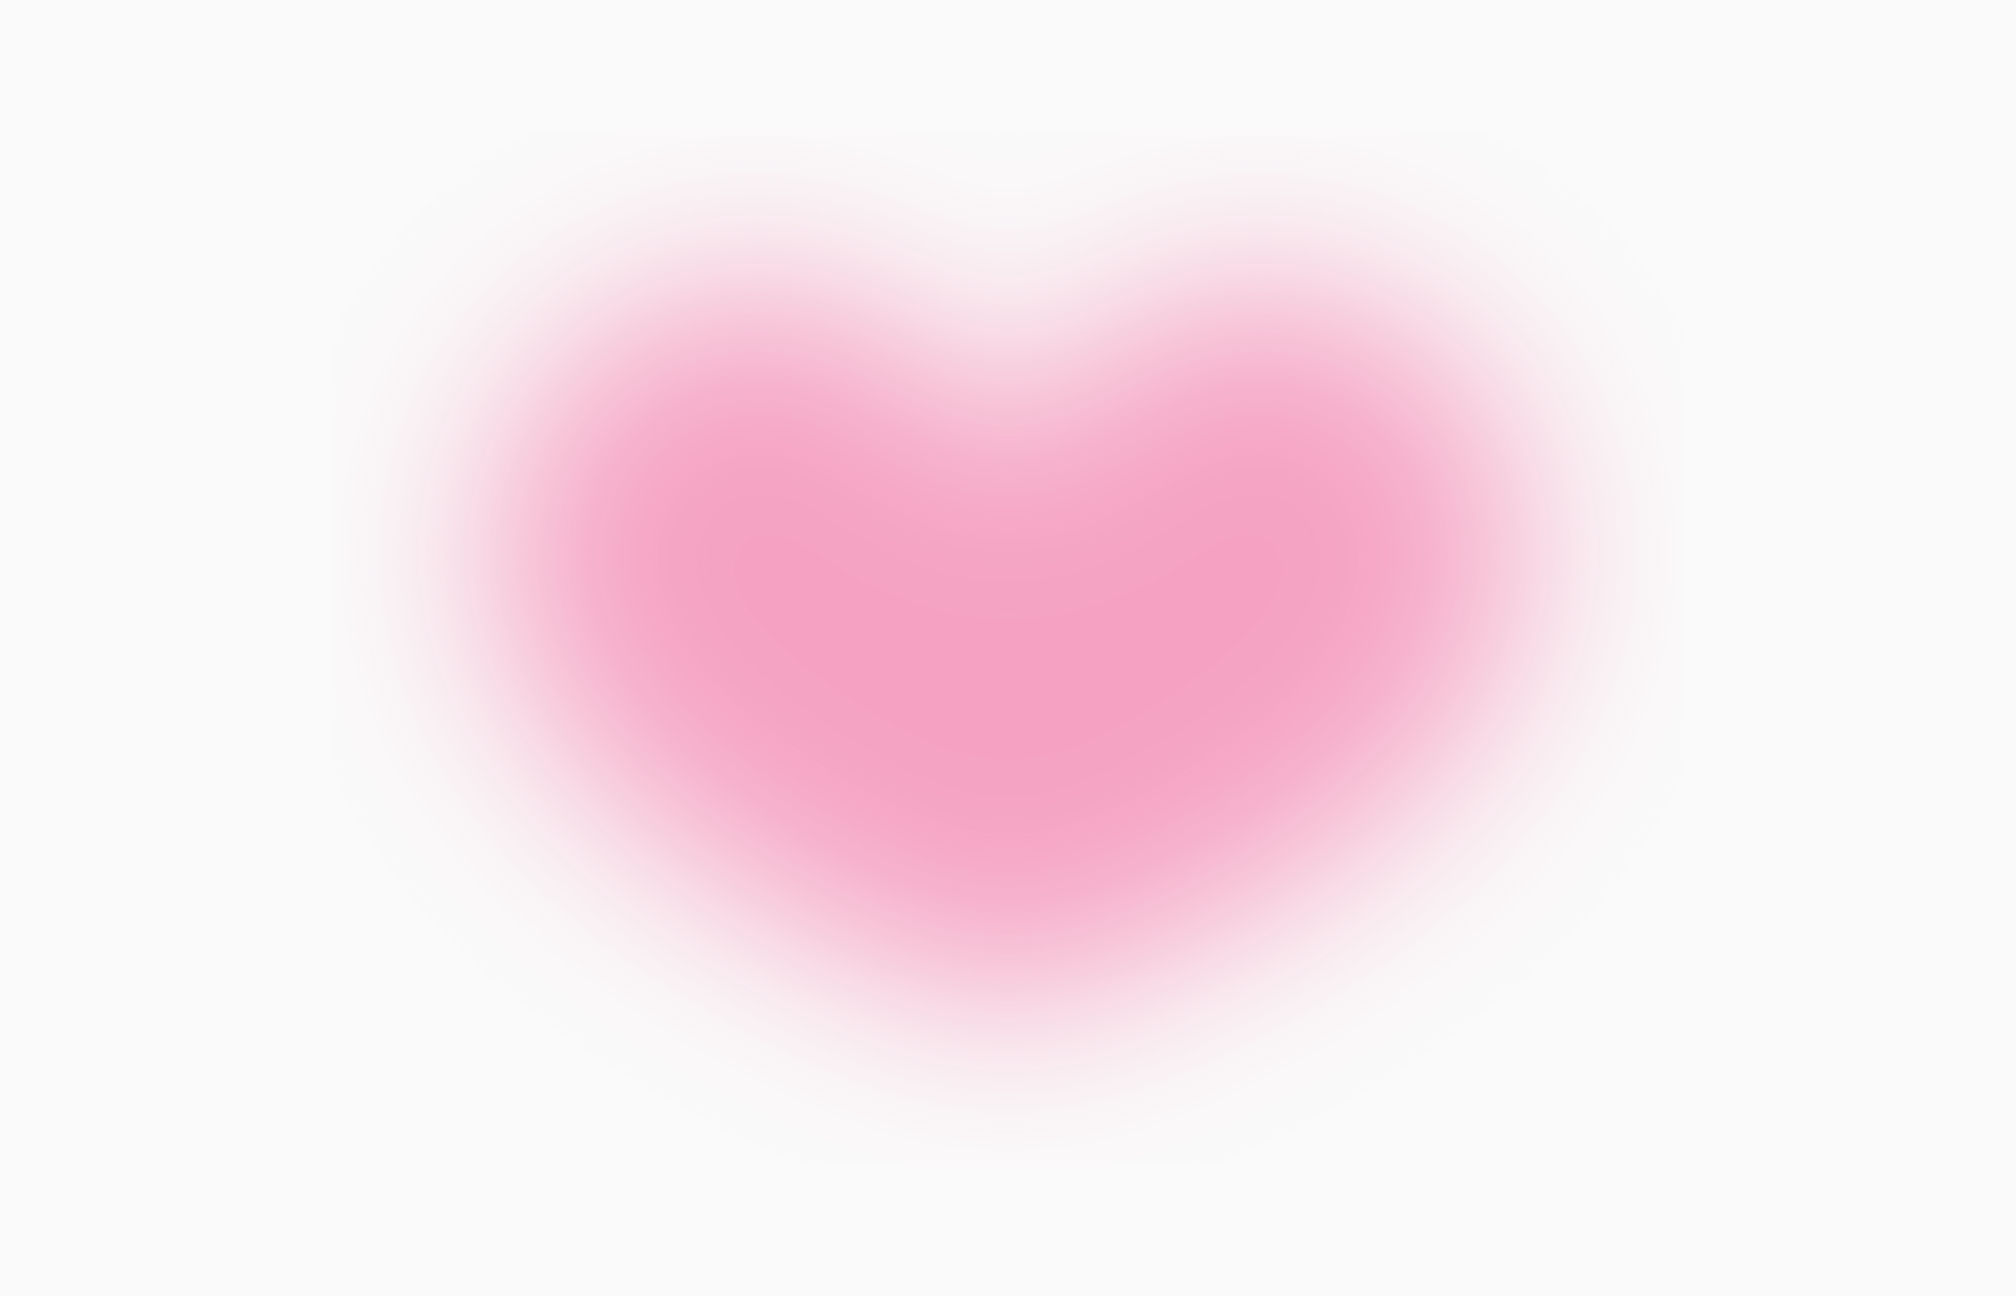
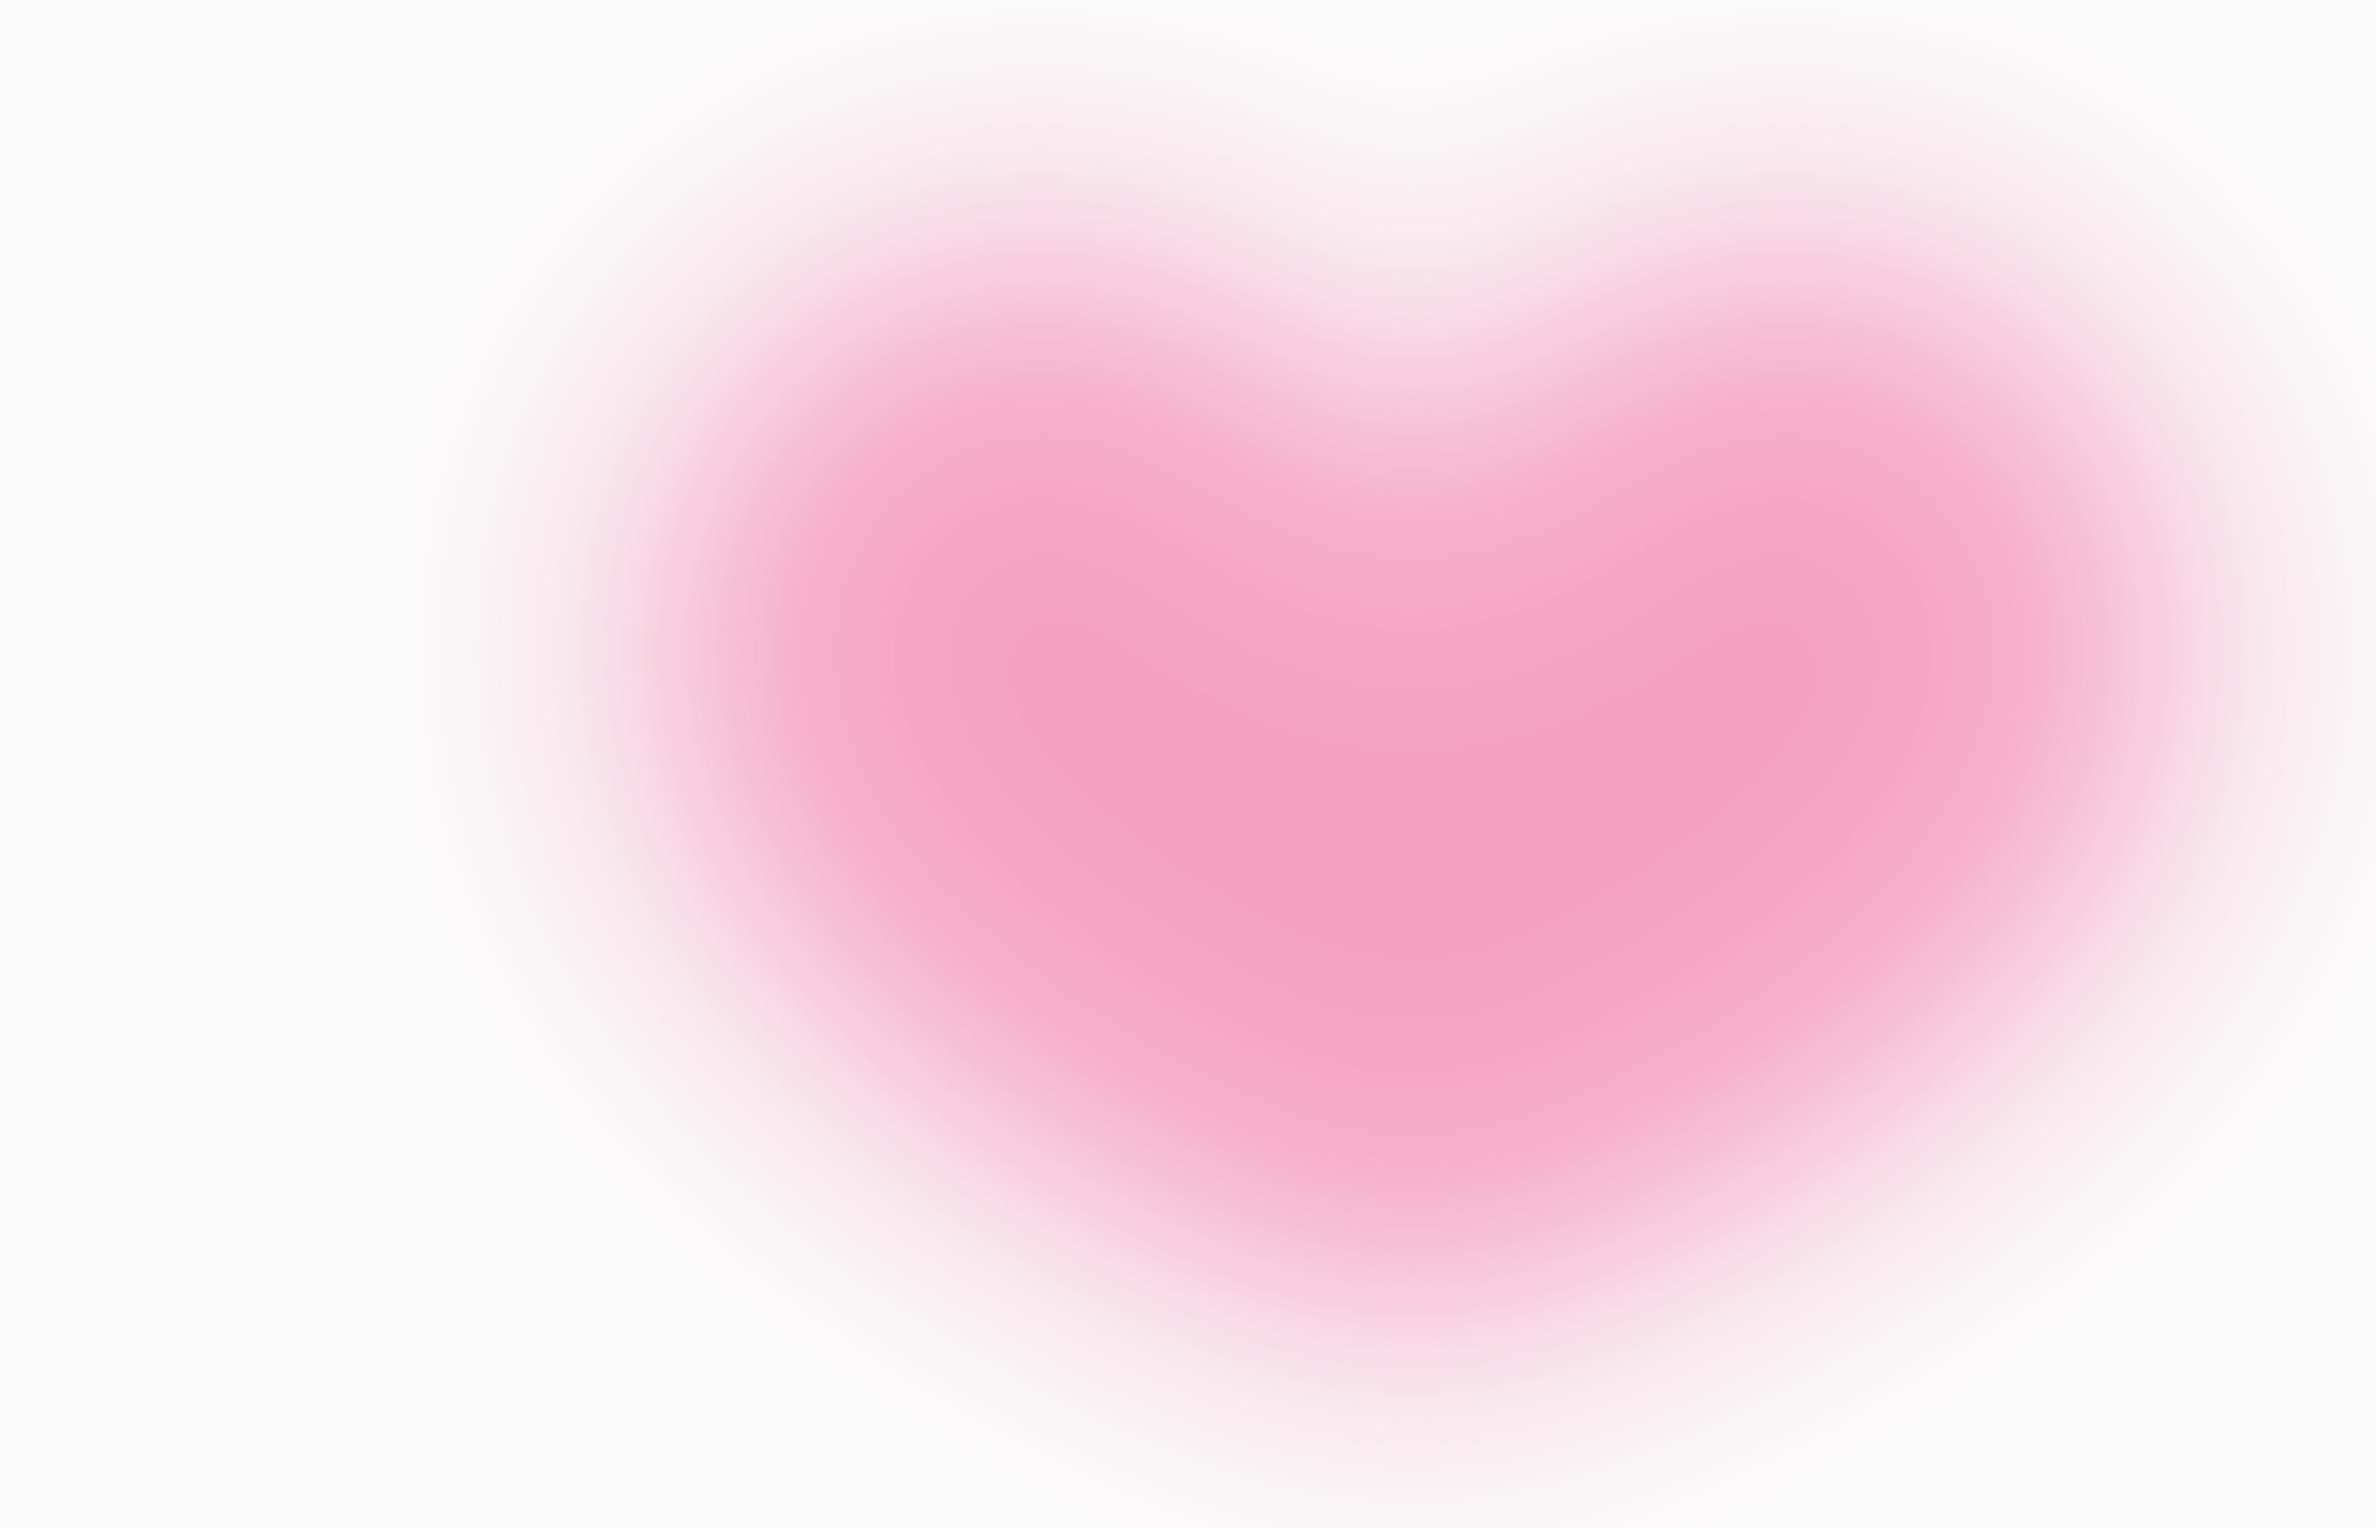
Add files via upload
resized wallpaper and shadow box

Changed region(s): [[0.4971, 0.1244, 0.9632, 0.9022], [0.4039, 0.1244, 0.5282, 0.3111]]

diff --git a/css/main.css b/css/main.css
@@ -86,7 +86,7 @@ section{
     padding: 25px;
     margin-top:50px;
     text-align: center;
-    box-shadow: 13px 13px 7px rgba(0, 0, 0, 0.261);
+    box-shadow: 10px 10px 5px rgba(0, 0, 0, 0.261);
 }
 
 section p {
